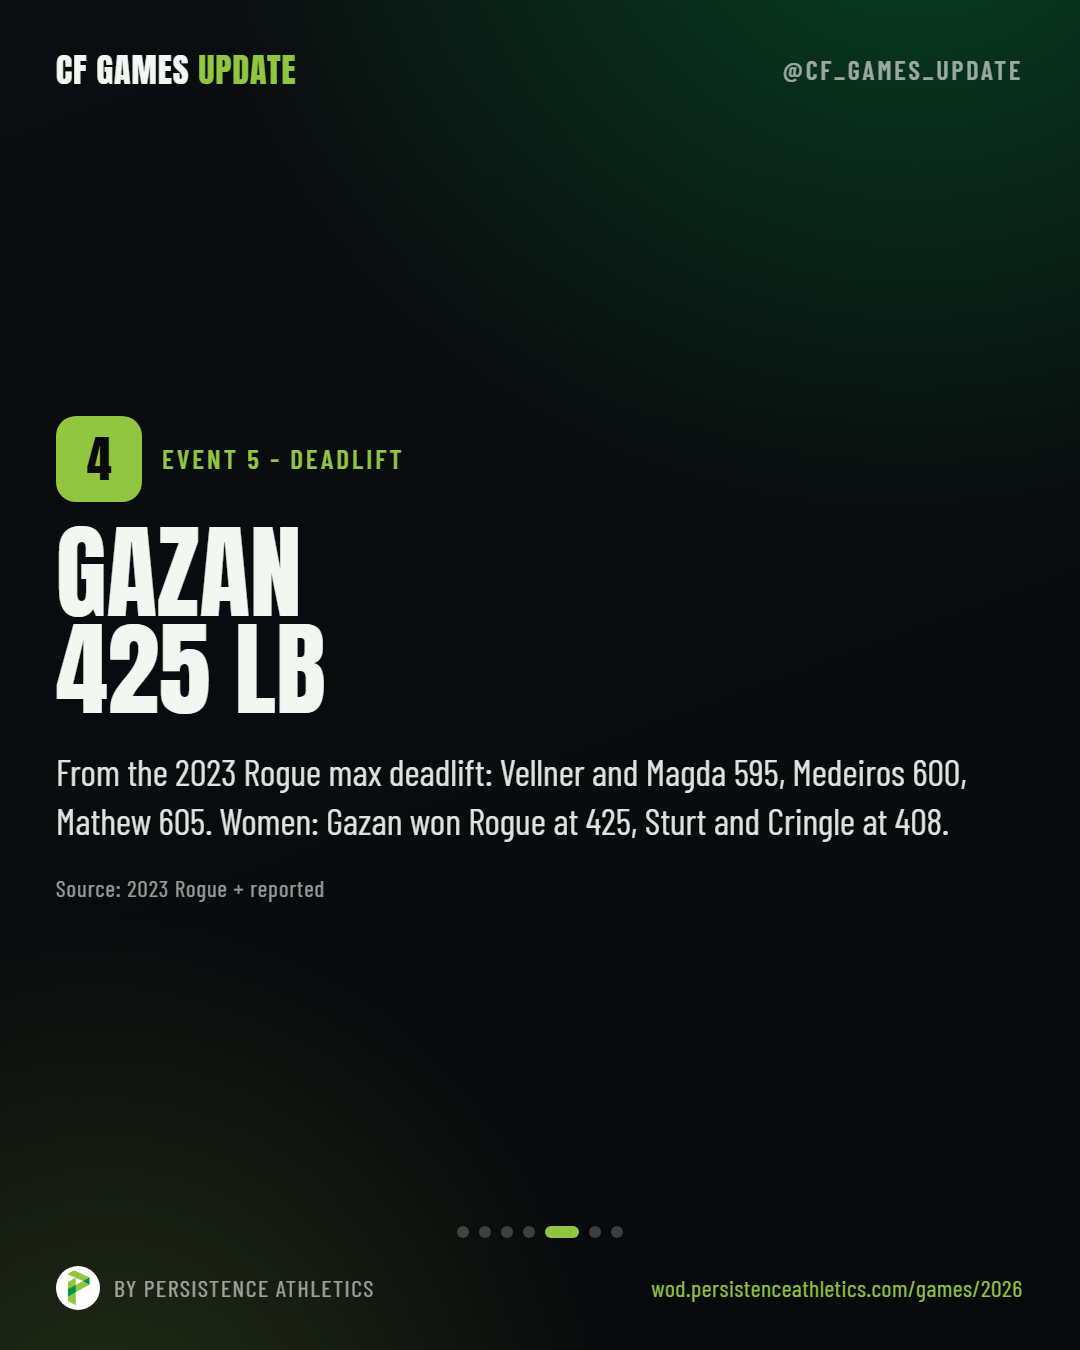
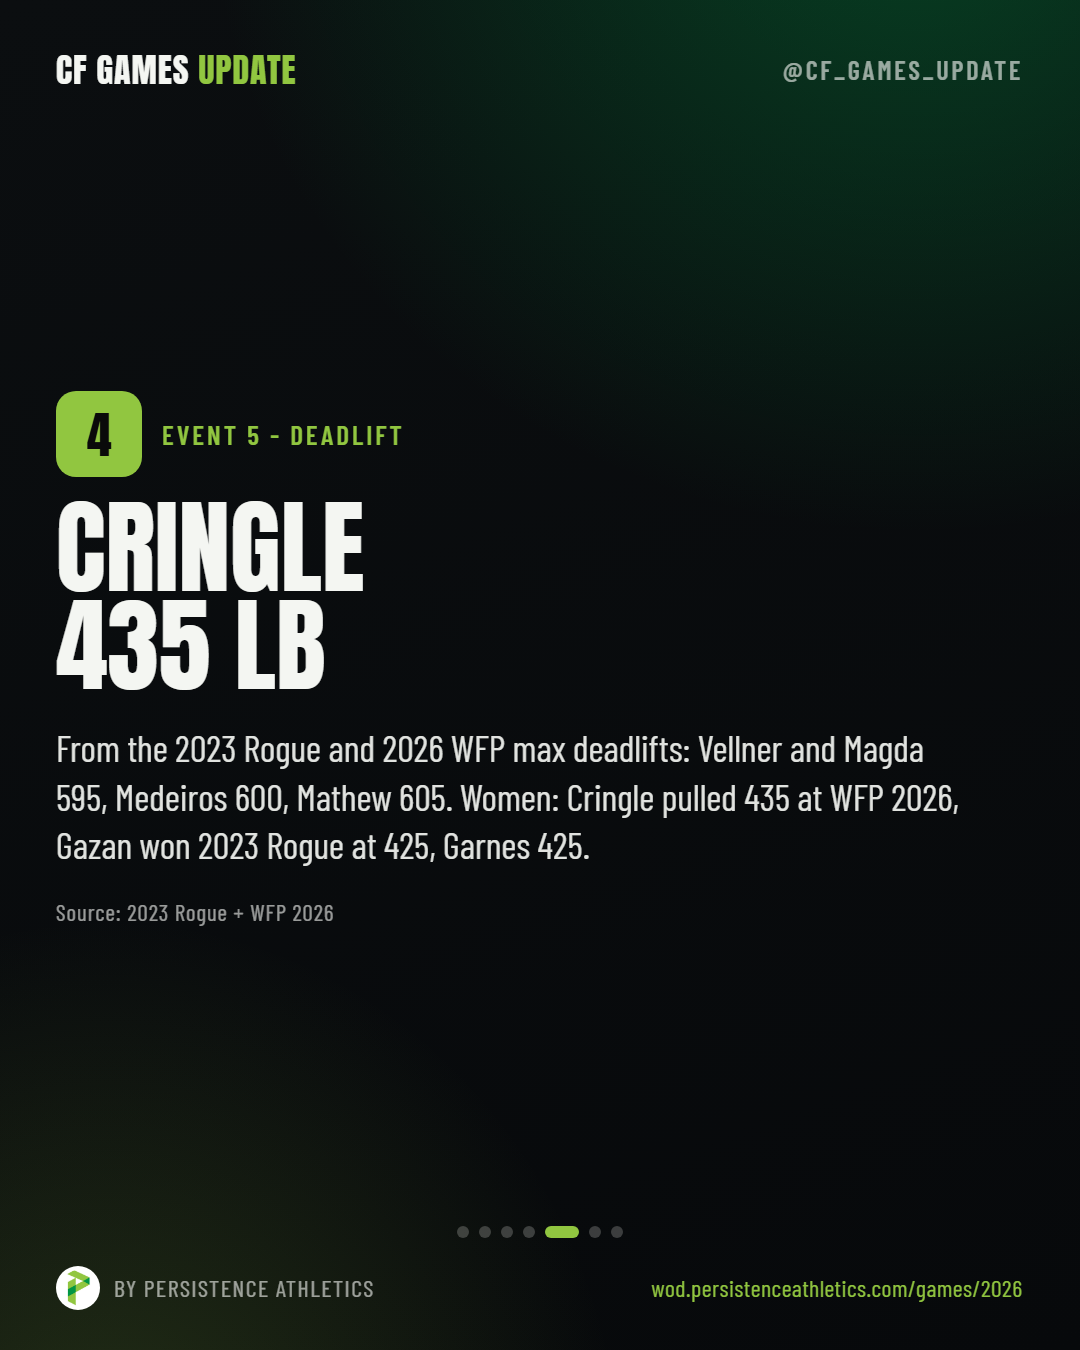
Correct women's deadlift board from verified WFP 2026 + Rogue data
A knowledgeable IG commenter flagged that our Event 5 deadlift (women)
numbers were self-reported profile stats, not competition maxes. A
verify + adversarial-refute research pass confirmed real World Fitness
Project 2026 results:

- Cringle 408 -> 435 (WFP 2026 Tour 1, 197 kg, tied 2nd; the circulating
  445 was a missed/uncounted final attempt, refuted).
- Garnes ADDED at 193 kg / 425 (WFP 2026; single-source recap, labeled
  provisional pending the official leaderboard).
- von Rohr 405 -> out of top 5: 405 was an unsupported estimate; only
  meet-verified pull is 380 (Swiss powerlifting), and she did not deadlift
  at WFP. Her Total drops 900 -> 875, reordering the women's Total board.
- Sturt 408 / Black 400 relabeled explicitly self-reported (Black's
  "WFP heavier" lead was a snatch, not a deadlift).

Updates the deadlift + total picks cards, the two cf-total-preview
carousel slides, and the CrossFit Total blog post (WFP sources added).

Changed region(s): [[0.0306, 0.28, 0.8861, 0.6844]]

diff --git a/src/games/CardStudio.tsx b/src/games/CardStudio.tsx
@@ -77,8 +77,8 @@ const PICKS: PickSet[] = [
     id: 'cf-deadlift',
     label: 'Event 5 - Deadlift',
     eventKicker: 'Event 5 - Deadlift',
-    eventLine: '1-rep-max deadlift. Competition-verified where available (2023 Rogue).',
-    note: 'Real 2023 Rogue Invitational max deadlift where available, else reported PR. A strength read, not a result prediction.',
+    eventLine: '1-rep-max deadlift. Competition-verified from WFP 2026 + 2023 Rogue where available, else self-reported.',
+    note: 'Best sourceable max: WFP 2026 Tour Stop 1 (Cringle 197 kg, Garnes 193 kg) and the 2023 Rogue Invitational (Gazan 425), else self-reported PR. Garnes is single-source, provisional. A strength read, not a result prediction.',
     men: [
       { name: 'Tudor Magda', value: '605', why: 'Reported PR (595 at 2023 Rogue).' },
       { name: 'Nick Mathew', value: '605', why: 'Reported PR.' },
@@ -87,11 +87,11 @@ const PICKS: PickSet[] = [
       { name: 'Jayson Hopper', value: '585', why: 'Reported (575 at 2023 Rogue).' },
     ],
     women: [
-      { name: 'Alex Gazan', value: '425', why: '2023 Rogue max-deadlift WINNER, a PR.' },
-      { name: 'Madeline Sturt', value: '408', why: 'Reported PR.' },
-      { name: 'Aimee Cringle', value: '408', why: 'Reported PR.' },
-      { name: 'Mirjam von Rohr', value: '405', why: 'Estimate.' },
-      { name: 'Hannah Black', value: '400', why: 'Reported PR.' },
+      { name: 'Aimee Cringle', value: '435', why: 'WFP 2026, 197 kg (tied 2nd). Was 408.' },
+      { name: 'Alex Gazan', value: '425', why: '2023 Rogue max-deadlift WINNER. Verified.' },
+      { name: 'Matilde Garnes', value: '425', why: 'WFP 2026, 193 kg. Single-source, provisional.' },
+      { name: 'Madeline Sturt', value: '408', why: 'Self-reported PR.' },
+      { name: 'Hannah Black', value: '400', why: 'Self-reported PR.' },
     ],
   },
   {
@@ -109,9 +109,9 @@ const PICKS: PickSet[] = [
     ],
     women: [
       { name: 'Alex Gazan', value: '912', why: 'Elite in all three: 320 squat, 167 press, 425 deadlift.' },
-      { name: 'Mirjam von Rohr', value: '900', why: 'Record-squat winner (360) plus a big pull.' },
       { name: 'Hannah Black', value: '895', why: '325 squat, 400 deadlift, top projected press.' },
       { name: 'Madeline Sturt', value: '879', why: '331 squat, 408 deadlift.' },
+      { name: 'Mirjam von Rohr', value: '875', why: 'Record squat (360); deadlift corrected to a verified 380.' },
       { name: 'Anikha Greer', value: '870', why: '355 squat plus a strong pull.' },
     ],
   },
@@ -230,14 +230,14 @@ const CAROUSELS: Carousel[] = [
     id: 'cf-total-preview',
     label: 'Events 3-5 - The CrossFit Total',
     caption:
-      "🏋 EVENTS 3-5 = THE CROSSFIT TOTAL. The Games bring back the Total: 1-rep-max back squat (E3), shoulder press (E4), deadlift (E5), each scored as its own 50-point event. 150 points on the line.\n\nWe went to the tape, real competition maxes from the 2025 Games back squat, the 2023 Rogue deadlift and the 2020 Games press, so here is a leaderboard for every lift plus the overall Total. Estimates are labeled. A strength read, not a result prediction. Full breakdown at the link in bio.\n\nEvent source: the official CrossFit Games workout page.",
+      "🏋 EVENTS 3-5 = THE CROSSFIT TOTAL. The Games bring back the Total: 1-rep-max back squat (E3), shoulder press (E4), deadlift (E5), each scored as its own 50-point event. 150 points on the line.\n\nWe went to the tape, real competition maxes from the 2025 Games back squat, the 2023 Rogue and 2026 WFP deadlifts and the 2020 Games press, so here is a leaderboard for every lift plus the overall Total. Estimates are labeled. A strength read, not a result prediction. Full breakdown at the link in bio.\n\nEvent source: the official CrossFit Games workout page.",
     slides: [
       { type: 'cover', kicker: 'Events 3-5', headline: 'THE CROSSFIT\nTOTAL', sub: 'Back squat, shoulder press, deadlift. One rep max each, three 50-point events. A leaderboard for each. Swipe.' },
       { type: 'point', num: 1, kicker: 'The Workout', headline: '3 LIFTS,\n150 POINTS', body: '1-rep-max back squat (E3), strict shoulder press (E4) and deadlift (E5). Each is its own 50-point event. Absolute load wins, bodyweight does not factor. Day 1, Wednesday July 22.', source: 'CrossFit Games (official workout page)' },
       { type: 'point', num: 2, kicker: 'Event 3 - Back Squat', headline: 'MERTENS\n570 LB', body: 'From the 2025 Games 1RM squat: Mertens 570 (a Games record), Mathew 555, Medeiros 512. Women: von Rohr 360 (2025 winner), Greer 355, Fuliano 353.', source: '2025 CrossFit Games + reported' },
       { type: 'point', num: 3, kicker: 'Event 4 - Shoulder Press', headline: 'THE HONEST\nBOARD', body: 'Almost no real strict-press data exists. Real ones: Adler 207, Vellner 200, Medeiros 175 (2020 Games), Adams 127, Gazan 167. The rest are labeled estimates; Khrennikov projects biggest near 240.', source: '2020 Games + estimates' },
-      { type: 'point', num: 4, kicker: 'Event 5 - Deadlift', headline: 'GAZAN\n425 LB', body: 'From the 2023 Rogue max deadlift: Vellner and Magda 595, Medeiros 600, Mathew 605. Women: Gazan won Rogue at 425, Sturt and Cringle at 408.', source: '2023 Rogue + reported' },
-      { type: 'point', num: 5, kicker: 'Overall Total - Top 3', headline: 'MATHEW.\nGAZAN.', body: 'Squat + press + deadlift: Men, Mathew near 1355, Mertens 1290, Medeiros 1287. Women, Gazan near 912, von Rohr 900, Black 895. Gazan is the only woman elite in all three.', source: 'Persistence Athletics model' },
+      { type: 'point', num: 4, kicker: 'Event 5 - Deadlift', headline: 'CRINGLE\n435 LB', body: 'From the 2023 Rogue and 2026 WFP max deadlifts: Vellner and Magda 595, Medeiros 600, Mathew 605. Women: Cringle pulled 435 at WFP 2026, Gazan won 2023 Rogue at 425, Garnes 425.', source: '2023 Rogue + WFP 2026' },
+      { type: 'point', num: 5, kicker: 'Overall Total - Top 3', headline: 'MATHEW.\nGAZAN.', body: 'Squat + press + deadlift: Men, Mathew near 1355, Mertens 1290, Medeiros 1287. Women, Gazan near 912, Black 895, Sturt 879. Gazan is the only woman elite in all three.', source: 'Persistence Athletics model' },
       { type: 'cta', headline: 'FULL\nBREAKDOWN', body: 'A leaderboard for every lift and the overall Total, with real competition maxes and labeled estimates, is on the site. A strength read, not a result prediction.' },
     ],
   },
